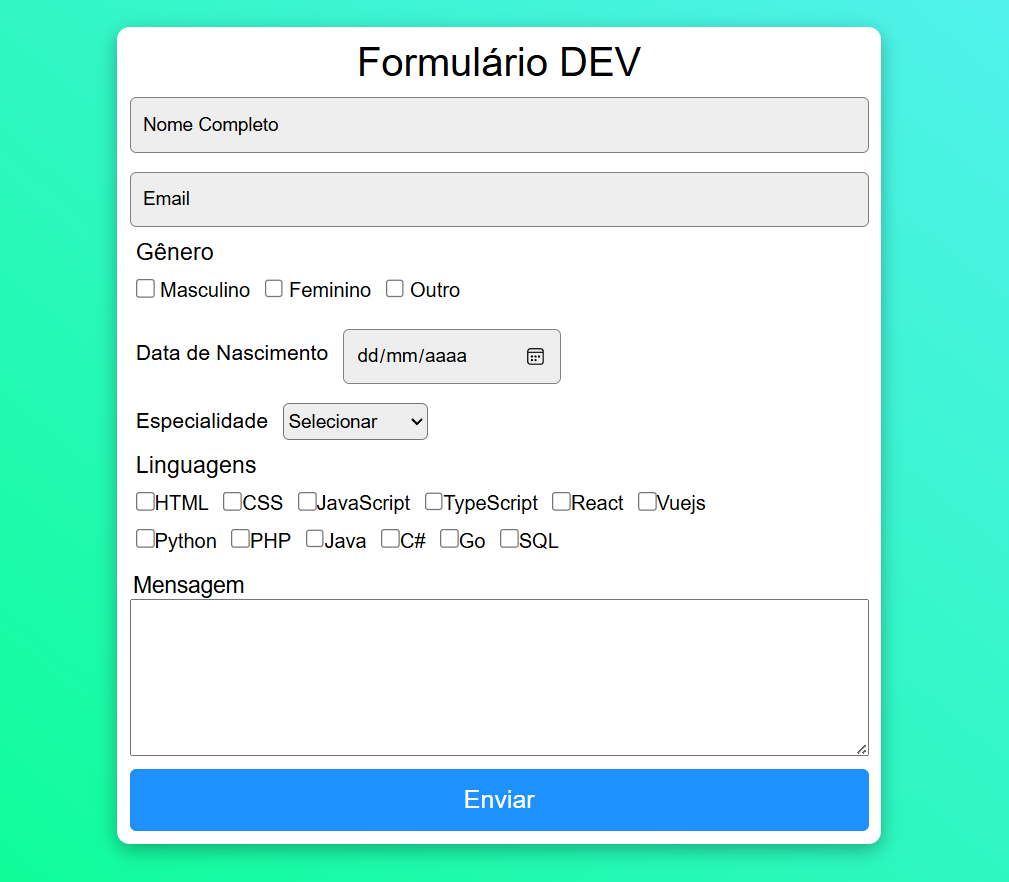
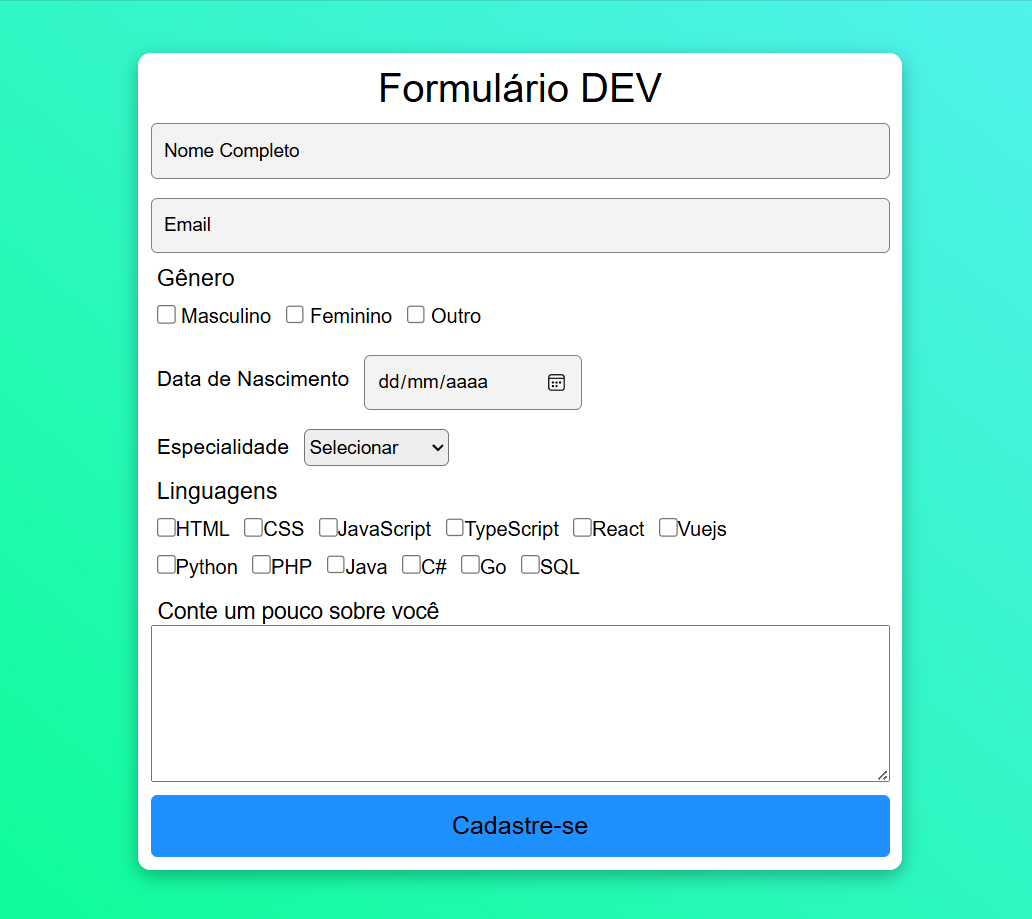
formulario

Changed region(s): [[0.0922, 0.0306, 0.891, 0.9796]]

diff --git a/Styles/style.scss b/Styles/style.scss
@@ -35,7 +35,7 @@ body{
         border-radius: 5px;
         color: black;
         font-size: 15px;
-        background-color: #eeeeee;
+        background-color: #f3f3f3;
         padding: 0px 10px;
         margin-top: 10px;
         margin-bottom: 5px;
@@ -52,7 +52,6 @@ body{
         font-size: 20px;
         cursor: pointer;
         background-color: dodgerblue;
-        color: white;
     }
 }
 
@@ -146,7 +145,7 @@ body{
     margin-top: 10px;
     label{
         font-size: 18px;
-        margin-left: -84%;
+        margin-left: -60%;
     }
     textarea{
         width: 100%;
@@ -162,6 +161,18 @@ body{
         width: 95%;
     }
 
+    .nascimento{
+        input{
+            width: 34%;
+        }
+    }
+
+    .especialidade{
+        select{
+            width: 30%;
+        }
+    }
+
     .linguagens{
         .tech{
             gap: 1%;
@@ -170,7 +181,7 @@ body{
 
     .mensagem{
         label{
-            margin-left: -79%;
+            margin-left: -50%;
         }
     }
 }

diff --git a/Styles/style.css b/Styles/style.css
@@ -36,7 +36,7 @@ body {
   border-radius: 5px;
   color: black;
   font-size: 15px;
-  background-color: #eeeeee;
+  background-color: #f3f3f3;
   padding: 0px 10px;
   margin-top: 10px;
   margin-bottom: 5px;
@@ -56,7 +56,6 @@ body {
   font-size: 20px;
   cursor: pointer;
   background-color: dodgerblue;
-  color: white;
 }
 
 /*----Genero----*/
@@ -150,7 +149,7 @@ body {
 }
 .mensagem label {
   font-size: 18px;
-  margin-left: -84%;
+  margin-left: -60%;
 }
 .mensagem textarea {
   width: 100%;
@@ -164,10 +163,16 @@ body {
   .formulario {
     width: 95%;
   }
+  .nascimento input {
+    width: 34%;
+  }
+  .especialidade select {
+    width: 30%;
+  }
   .linguagens .tech {
     gap: 1%;
   }
   .mensagem label {
-    margin-left: -79%;
+    margin-left: -50%;
   }
 }/*# sourceMappingURL=style.css.map */

diff --git a/index.html b/index.html
@@ -52,10 +52,10 @@
             </div>
         </div>
         <div class="mensagem">
-            <label>Mensagem</label>
+            <label>Conte um pouco sobre você</label>
             <textarea></textarea>
         </div>
-        <button>Enviar</button>
+        <button>Cadastre-se</button>
     </div>
 </body>
 </html>
